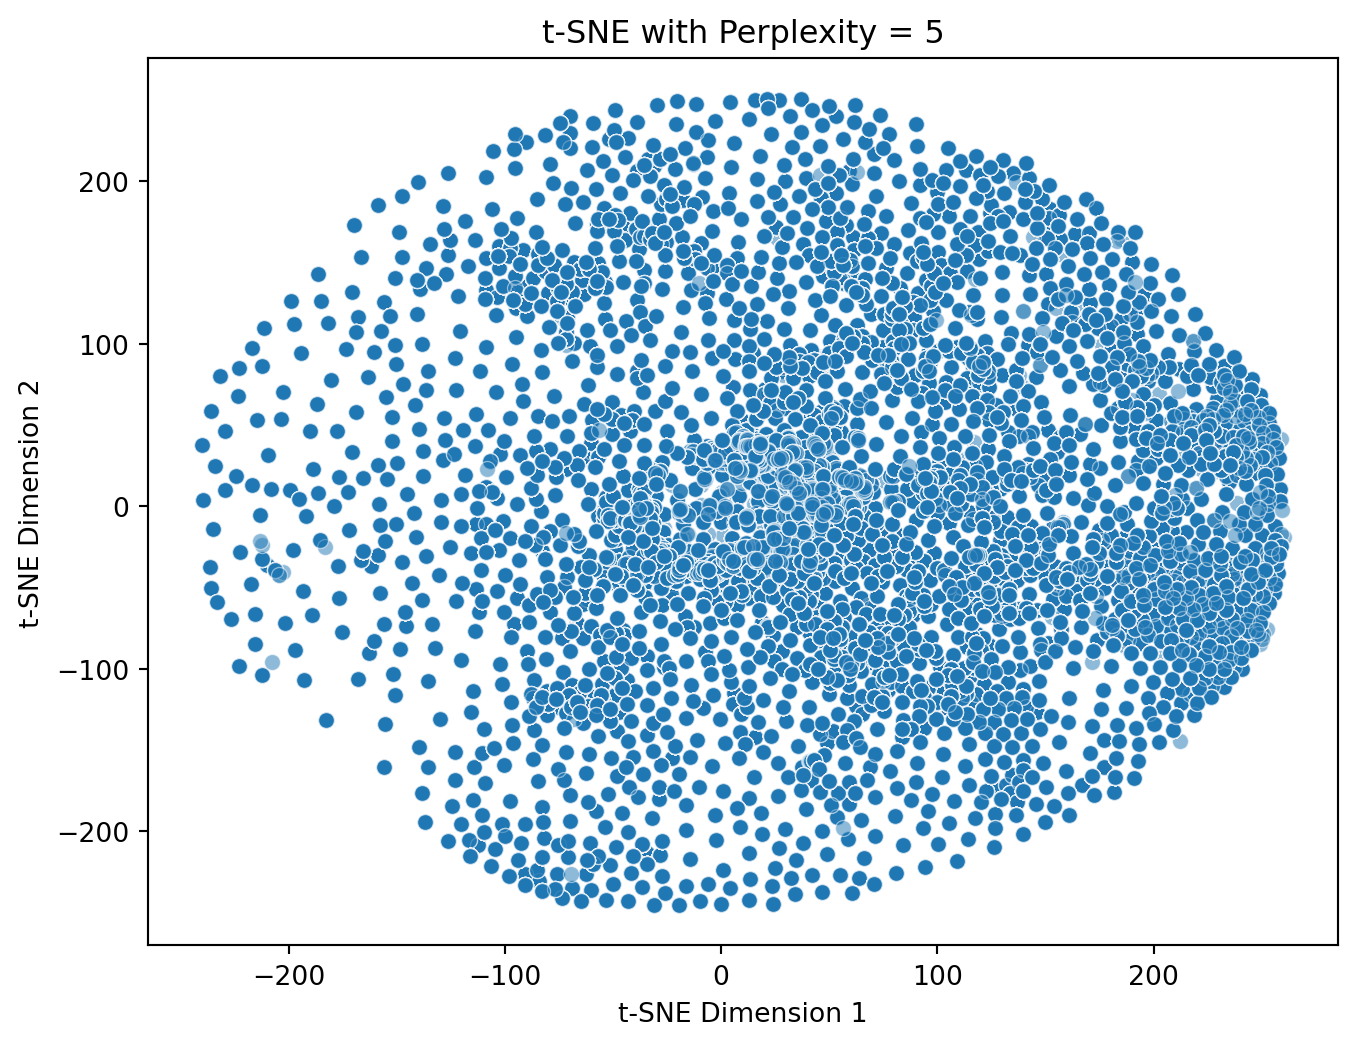
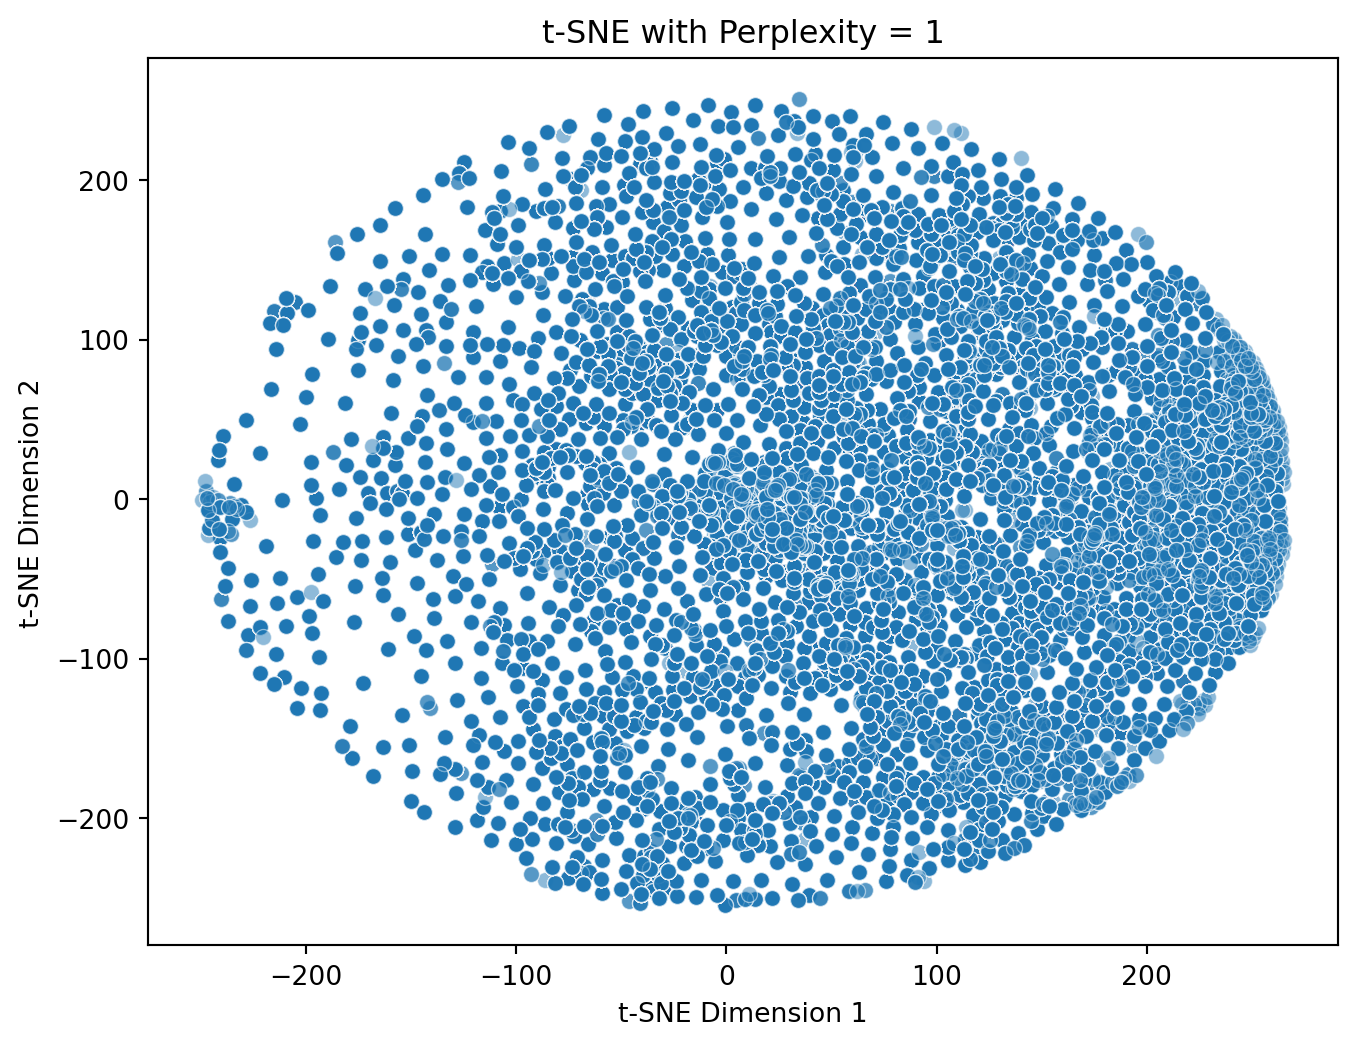
push

diff --git a/HW1/_site/Reduction.html b/HW1/_site/Reduction.html
@@ -307,7 +307,7 @@ div.csl-indent {
 <span id="cb2-21"><a href="#cb2-21" aria-hidden="true" tabindex="-1"></a>pca.fit(preprocessed_data)</span>
 <span id="cb2-22"><a href="#cb2-22" aria-hidden="true" tabindex="-1"></a></span>
 <span id="cb2-23"><a href="#cb2-23" aria-hidden="true" tabindex="-1"></a><span class="co"># Plotting the Cumulative Summation of the Explained Variance</span></span>
-<span id="cb2-24"><a href="#cb2-24" aria-hidden="true" tabindex="-1"></a>plt.figure(figsize<span class="op">=</span>(<span class="dv">6</span>, <span class="dv">6</span>))</span>
+<span id="cb2-24"><a href="#cb2-24" aria-hidden="true" tabindex="-1"></a>plt.figure(figsize<span class="op">=</span>(<span class="dv">8</span>, <span class="dv">6</span>))</span>
 <span id="cb2-25"><a href="#cb2-25" aria-hidden="true" tabindex="-1"></a>plt.plot(pca.explained_variance_ratio_.cumsum(), marker<span class="op">=</span><span class="st">'o'</span>, linestyle<span class="op">=</span><span class="st">'--'</span>)</span>
 <span id="cb2-26"><a href="#cb2-26" aria-hidden="true" tabindex="-1"></a>plt.title(<span class="st">'Cumulative Explained Variance by PCA Components'</span>)</span>
 <span id="cb2-27"><a href="#cb2-27" aria-hidden="true" tabindex="-1"></a>plt.xlabel(<span class="st">'Number of Components'</span>)</span>
@@ -315,7 +315,7 @@ div.csl-indent {
 <span id="cb2-29"><a href="#cb2-29" aria-hidden="true" tabindex="-1"></a>plt.grid(<span class="va">True</span>)</span>
 <span id="cb2-30"><a href="#cb2-30" aria-hidden="true" tabindex="-1"></a>plt.show()</span></code><button title="Copy to Clipboard" class="code-copy-button"><i class="bi"></i></button></pre></div>
 <div class="cell-output cell-output-display">
-<p><img src="Reduction_files/figure-html/cell-3-output-1.png" width="515" height="523"></p>
+<p><img src="Reduction_files/figure-html/cell-3-output-1.png" width="663" height="523"></p>
 </div>
 </div>
 </section>
@@ -352,12 +352,18 @@ div.csl-indent {
 <span id="cb3-28"><a href="#cb3-28" aria-hidden="true" tabindex="-1"></a>        plt.show()</span>
 <span id="cb3-29"><a href="#cb3-29" aria-hidden="true" tabindex="-1"></a></span>
 <span id="cb3-30"><a href="#cb3-30" aria-hidden="true" tabindex="-1"></a><span class="co"># List of perplexity values to explore</span></span>
-<span id="cb3-31"><a href="#cb3-31" aria-hidden="true" tabindex="-1"></a>perplexities <span class="op">=</span> [<span class="dv">5</span>]</span>
+<span id="cb3-31"><a href="#cb3-31" aria-hidden="true" tabindex="-1"></a>perplexities <span class="op">=</span> [<span class="dv">1</span>, <span class="dv">5</span>, <span class="dv">10</span>]</span>
 <span id="cb3-32"><a href="#cb3-32" aria-hidden="true" tabindex="-1"></a></span>
 <span id="cb3-33"><a href="#cb3-33" aria-hidden="true" tabindex="-1"></a><span class="co"># Run and visualize t-SNE for each perplexity</span></span>
 <span id="cb3-34"><a href="#cb3-34" aria-hidden="true" tabindex="-1"></a>run_tsne_and_visualize(data_tensor.cpu().numpy(), perplexities)</span></code><button title="Copy to Clipboard" class="code-copy-button"><i class="bi"></i></button></pre></div>
 <div class="cell-output cell-output-display">
 <p><img src="Reduction_files/figure-html/cell-4-output-1.png" width="679" height="523"></p>
+</div>
+<div class="cell-output cell-output-display">
+<p><img src="Reduction_files/figure-html/cell-4-output-2.png" width="679" height="523"></p>
+</div>
+<div class="cell-output cell-output-display">
+<p><img src="Reduction_files/figure-html/cell-4-output-3.png" width="679" height="523"></p>
 </div>
 </div>
 </section>
